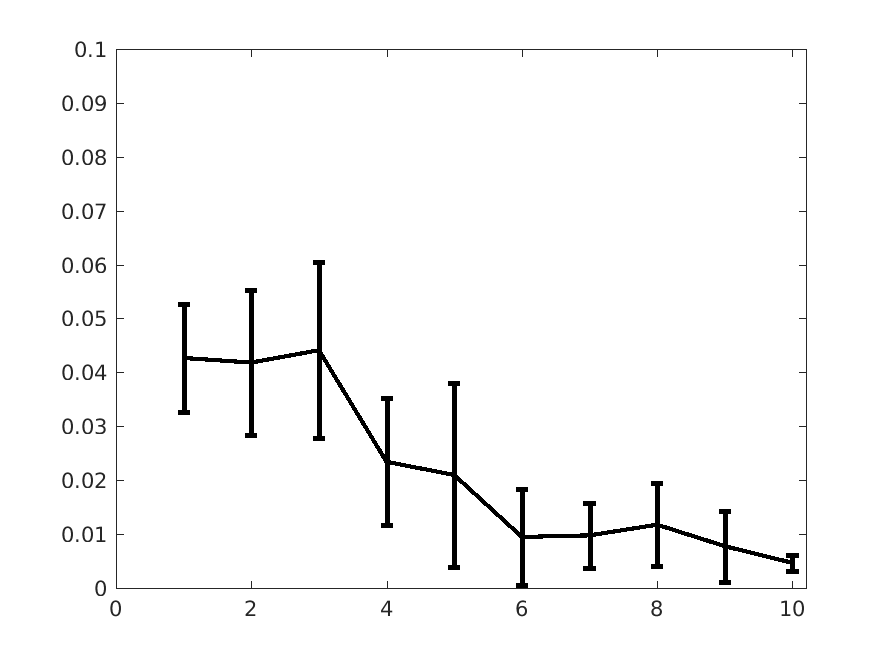
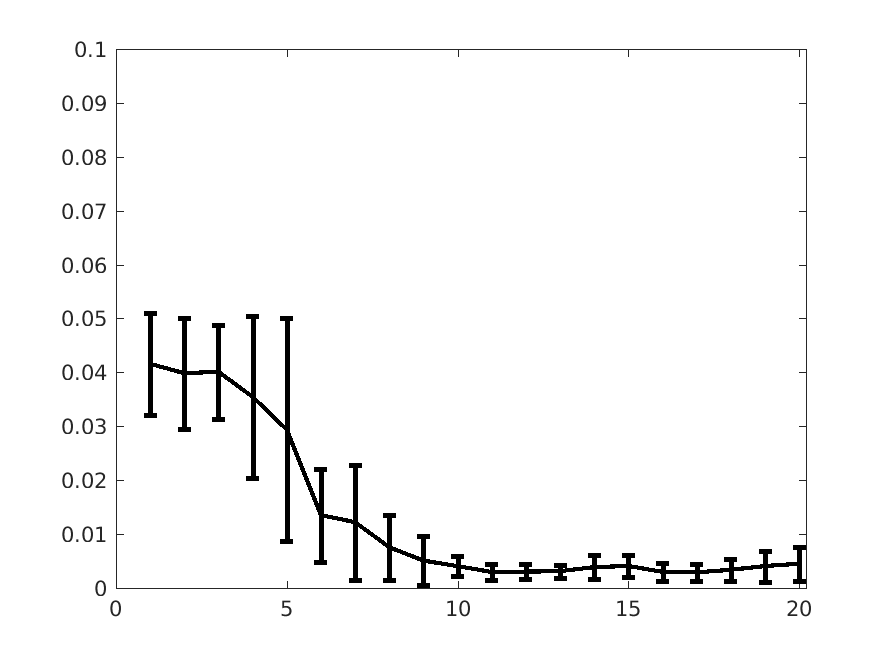
New data sets

diff --git a/data/sortData.m b/data/sortData.m
@@ -21,7 +21,7 @@ plot(d(:,1), ang_err)
 % mean_trans_err
 % mean_ang_err
 
-for i=0:10
+for i=0:20
     
     
     trial = i;
@@ -39,20 +39,20 @@ end
 figure('Name','Mean_Trans_err')
 
 linespec = {'Color','black', 'LineWidth',2};
-plot(0:10, mean_trans_err,linespec{:})
+plot(0:20, mean_trans_err,linespec{:})
 hold on
-errorbar(1:10, mean_trans_err(2:end), var_trans_err(2:end), ...
+errorbar(1:20, mean_trans_err(2:end), var_trans_err(2:end), ...
          linespec{:})
-xlim([0,10.2]);
+xlim([0,20.2]);
 saveas(gcf, 'On_Robot_Trans.png')
 
 
 
 figure('Name','Mean_Ang_err')
-plot(0:10, mean_ang_err,linespec{:})
+plot(0:20, mean_ang_err,linespec{:})
 hold on
-errorbar(1:10, mean_ang_err(2:end), var_ang_err(2:end), linespec{:})
-xlim([0,10.2]);
+errorbar(1:20, mean_ang_err(2:end), var_ang_err(2:end), linespec{:})
+xlim([0,20.2]);
 ylim([0, .1]);
 saveas(gcf, 'On_Robot_Ang.png')
 
